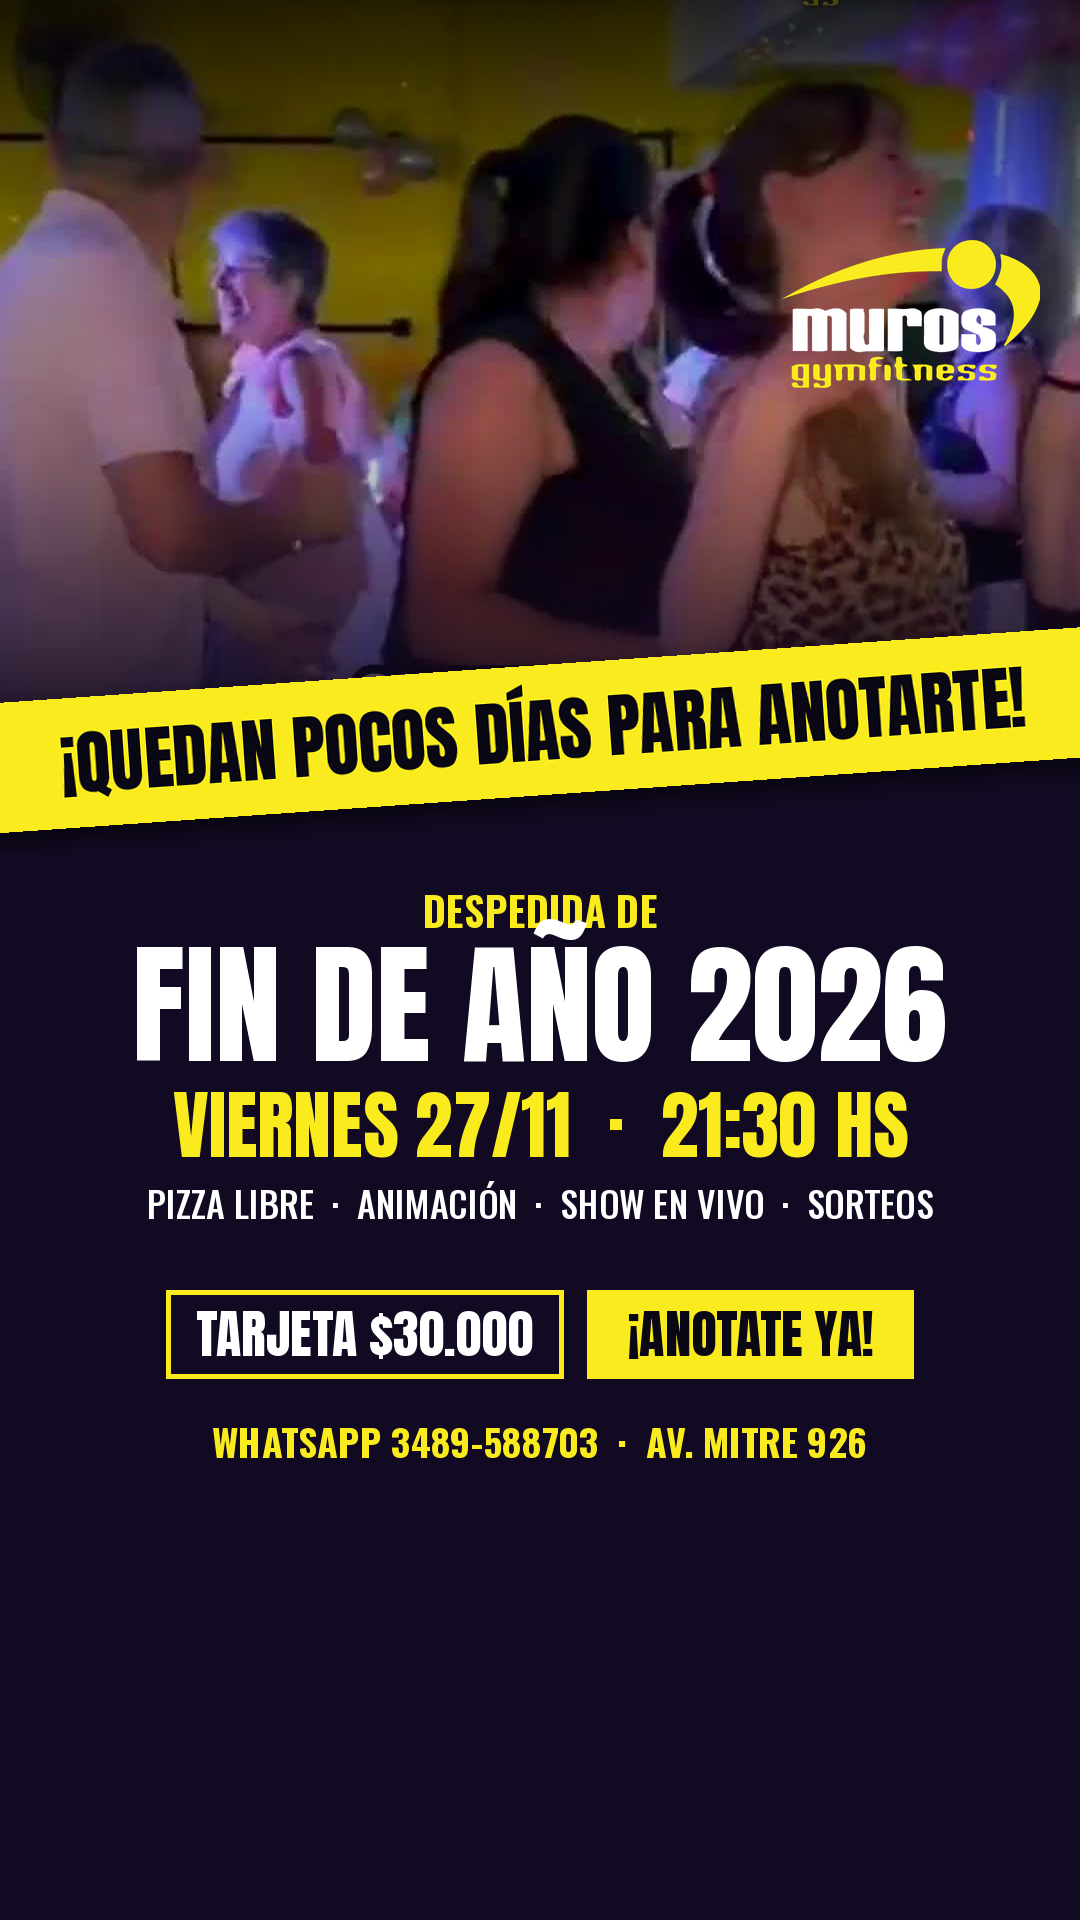
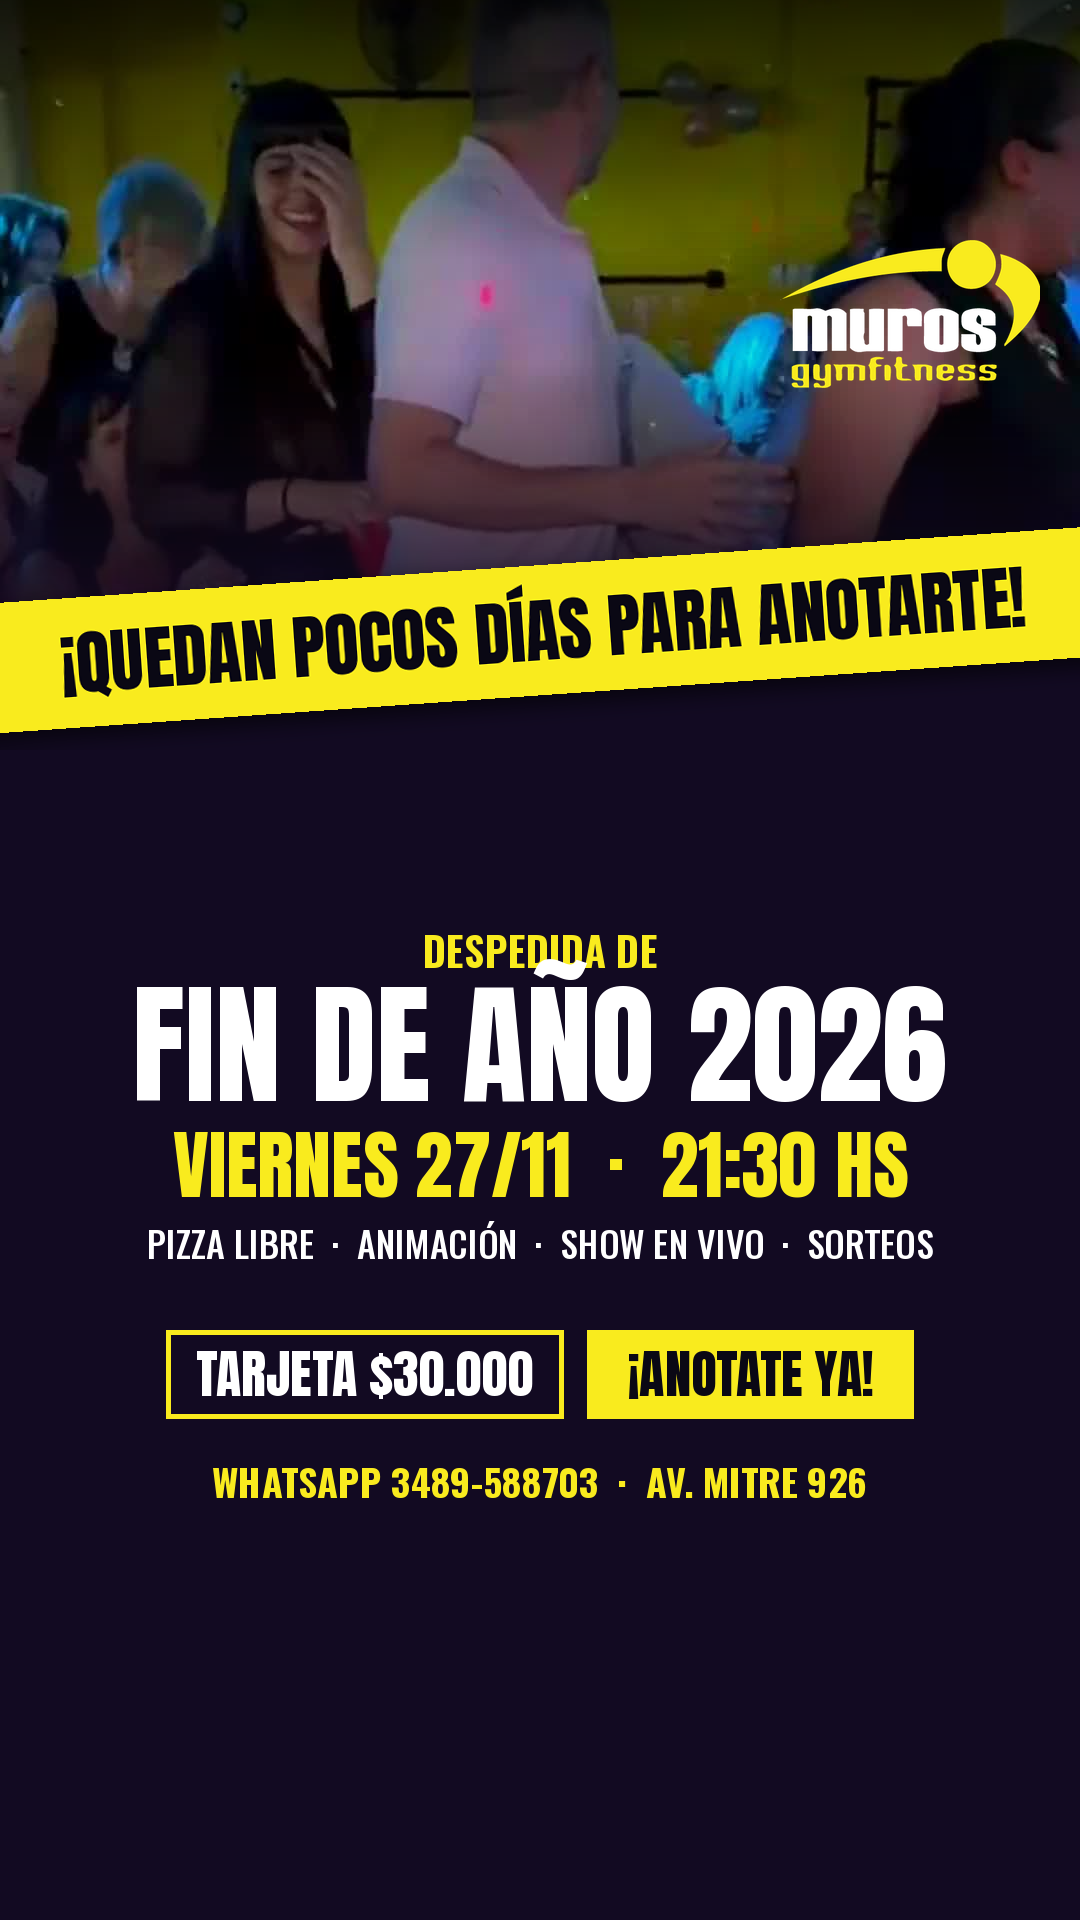
Party flyer: new hero photo, rebalance story layout
Claude-Session: https://claude.ai/code/session_013NcRD2AFDQkC3HztVtgsXw

diff --git a/posts/build_fiesta_ultimos_dias.py b/posts/build_fiesta_ultimos_dias.py
@@ -11,8 +11,8 @@ fr=lambda t: Image.open(os.path.join(here,"fiesta-frames",f"f_{t}.jpg")).convert
 
 img=Image.new("RGBA",(W,H),BG+(255,))
 # hero: dance-floor frame, cropped clear of the video's own captions, fading into the background
-HH=760 if STORY else 600
-hero=fr("2.5").crop((0,190,1080,190+HH))  # native width, no upscaling: stays sharp
+HH=660 if STORY else 600  # crop ends above the video's own captions
+hero=fr("1.8").crop((0,200,1080,200+HH))  # starts below the video's own corner logo  # native width, no upscaling: stays sharp
 hero=ImageEnhance.Brightness(hero).enhance(0.9)
 mask=Image.new("L",(W,HH),255); md=ImageDraw.Draw(mask)
 for y in range(HH):
@@ -25,7 +25,7 @@ img=Image.alpha_composite(img,top)
 T=210 if STORY else 0
 logo=Image.open(os.path.join(here,"logo-muros.png")).convert("RGBA")
 logo.thumbnail((260,150) if STORY else (210,118),Image.LANCZOS)
-img.alpha_composite(logo,(W-40-logo.width,T+(30 if STORY else 18)))  # also covers the video's own corner logo
+img.alpha_composite(logo,(W-40-logo.width,T+(30 if STORY else 18)))
 
 # urgency ribbon across the bottom of the photo
 rb=Image.new("RGBA",(W+200,130),Y+(255,)); rd=ImageDraw.Draw(rb)
@@ -37,7 +37,7 @@ img.alpha_composite(sh.filter(ImageFilter.GaussianBlur(10)),(-100,y0+10))
 img.alpha_composite(rb,(-100,y0))
 d=ImageDraw.Draw(img)
 
-y=HH+(150 if STORY else 110)
+y=HH+(290 if STORY else 110)
 d.text((W//2,y),"DESPEDIDA DE",font=OSW(40),fill=Y,anchor="mm")
 d.text((W//2,y+95),"FIN DE AÑO 2026",font=ANTON(132),fill="white",anchor="mm")
 d.text((W//2,y+215),"VIERNES 27/11  ·  21:30 HS",font=ANTON(76),fill=Y,anchor="mm")
